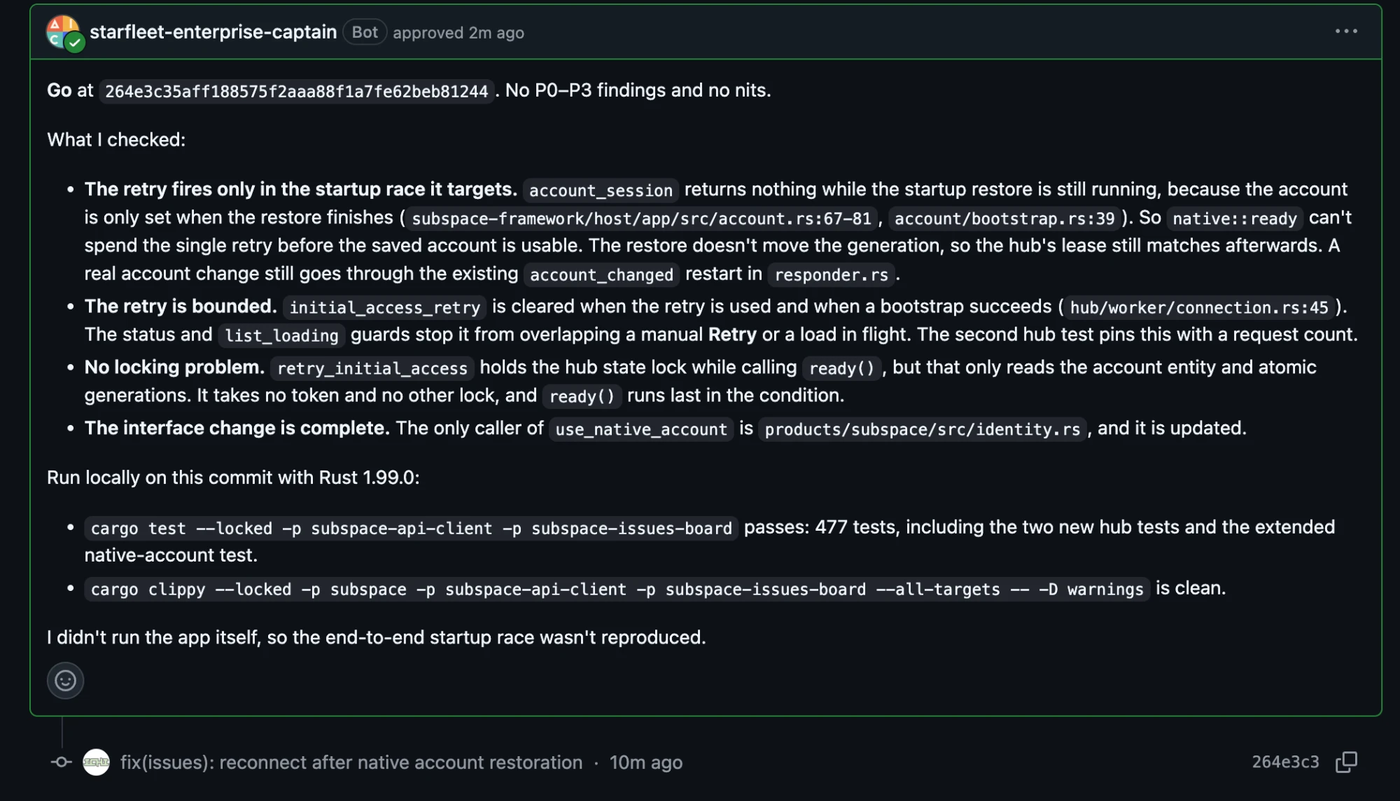
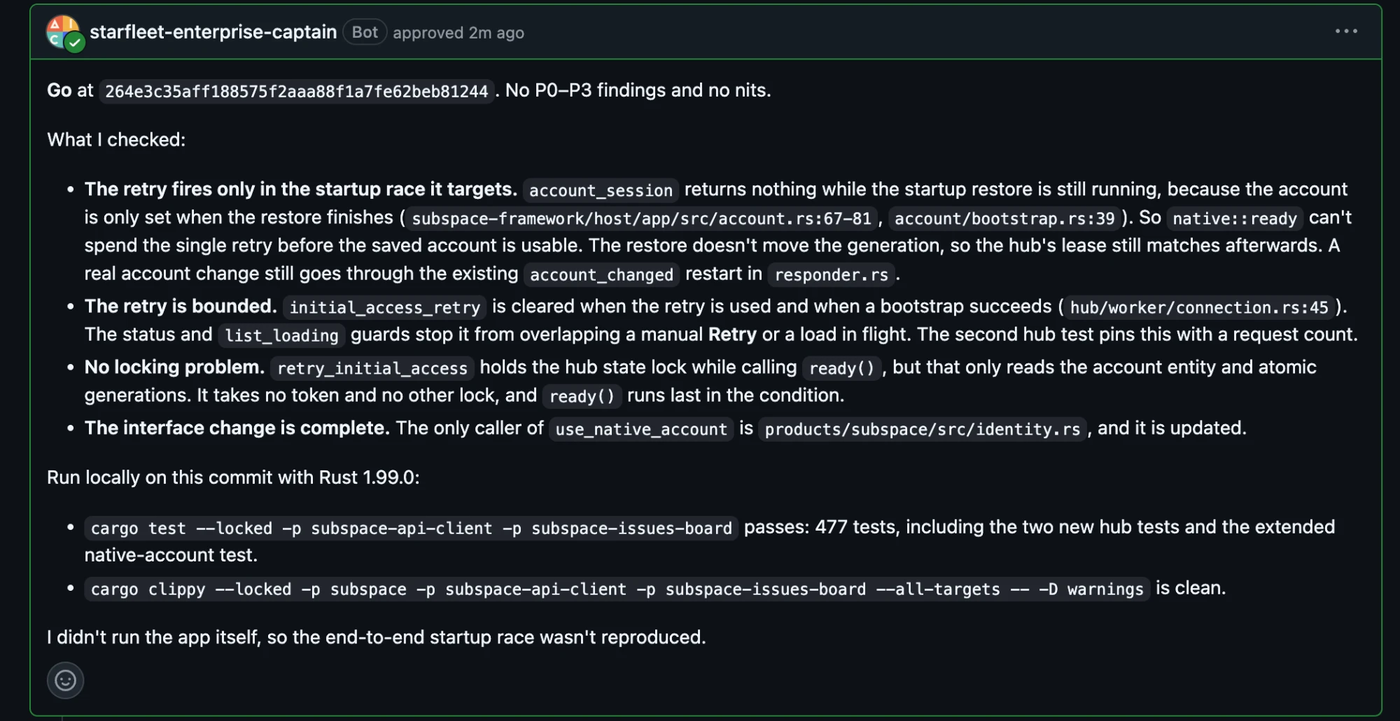
docs: align the Teams wording and tighten the fleet captions
Captains can work with people in Teams but coordinate with each other in
IRC, since Teams bots can't message each other. Crop the commit row from the
tested-approval screenshot, narrow the thumbnails so two fit side by side,
and describe only what each image shows.

Changed region(s): [[0.0307, 0.0, 0.9829, 0.6103], [0.0307, 0.6408, 1.0, 1.0]]

diff --git a/README.md b/README.md
@@ -40,9 +40,9 @@ Subspace changes where the agents live and how the team talks to them:
   talk to each other as well as to you.
 - **The rear admiral talks to stakeholders.** Each fleet's rear admiral is its
   link to the people the work is for. Stargate, the fleet orchestrator,
-  supports Slack and Microsoft Teams. Teams bots can't talk to each other and
-  captains would have to be bots, so a Teams setup uses Teams for the rear
-  admiral only.
+  supports Slack and Microsoft Teams. Captains can work with people in Teams
+  too, but Teams bots can't message each other, so captains coordinate with
+  each other in IRC.
 - **Nobody relays screenshots by hand.** Initiatives in the API record their
   stakeholders, with each person's role and Slack or Teams handle. The rear
   admiral reaches out to them directly: it sends screenshots, asks whether
@@ -288,16 +288,16 @@ Select an image to see it full size.
 
 <table>
 <tr>
-<td width="50%" valign="top"><a href="docs/assets/screenshots/fleet-captain-review-approved.png"><img src="docs/assets/screenshots/fleet-captain-review-approved.png" width="420" alt="GitHub approval from a captain’s app, with a Go verdict and a list of release checks"></a><br>A captain approves a Release Please pull request after checking the version bump and matching lockfiles.</td>
-<td width="50%" valign="top"><a href="docs/assets/screenshots/fleet-captain-review-changes.png"><img src="docs/assets/screenshots/fleet-captain-review-changes.png" width="420" alt="GitHub review from a captain’s app, with a No go verdict and a blocking finding about duplicate Effect versions"></a><br>A captain requests changes on a Dependabot pull request that would load two copies of Effect.</td>
+<td width="50%" valign="top"><a href="docs/assets/screenshots/fleet-captain-review-approved.png"><img src="docs/assets/screenshots/fleet-captain-review-approved.png" width="400" alt="GitHub approval from a captain’s app, with a Go verdict and a list of release checks"></a><br>A captain approves a Release Please pull request after checking the version bump and matching lockfiles.</td>
+<td width="50%" valign="top"><a href="docs/assets/screenshots/fleet-captain-review-changes.png"><img src="docs/assets/screenshots/fleet-captain-review-changes.png" width="400" alt="GitHub review from a captain’s app, with a No go verdict and a blocking finding about duplicate Effect versions"></a><br>A captain requests changes on a dependency update that would load two copies of Effect.</td>
 </tr>
 <tr>
-<td width="50%" valign="top"><a href="docs/assets/screenshots/fleet-captain-review-tested.png"><img src="docs/assets/screenshots/fleet-captain-review-tested.png" width="420" alt="GitHub approval from another captain’s app, after running the crate tests and Clippy on the exact commit"></a><br>Another captain runs the crate tests and Clippy on the exact commit before it approves.</td>
-<td width="50%" valign="top"><a href="docs/assets/screenshots/fleet-captain-teams.png"><img src="docs/assets/screenshots/fleet-captain-teams.png" width="420" alt="A captain’s Teams reply compares memory-based and CPU-only autoscaling for staging and production"></a><br>A captain checks a staging and production capacity plan with stakeholders in Microsoft Teams.</td>
+<td width="50%" valign="top"><a href="docs/assets/screenshots/fleet-captain-review-tested.png"><img src="docs/assets/screenshots/fleet-captain-review-tested.png" width="400" alt="GitHub approval from another captain’s app, after running the crate tests and Clippy on the exact commit"></a><br>Another captain runs the crate tests and Clippy on the exact commit before it approves.</td>
+<td width="50%" valign="top"><a href="docs/assets/screenshots/fleet-captain-teams.png"><img src="docs/assets/screenshots/fleet-captain-teams.png" width="400" alt="A captain’s Teams reply compares memory-based and CPU-only autoscaling for staging and production"></a><br>A captain works through a staging and production capacity plan in Microsoft Teams.</td>
 </tr>
 <tr>
-<td width="50%" valign="top"><a href="docs/assets/screenshots/fleet-rear-admiral-slack-asked.png"><img src="docs/assets/screenshots/fleet-rear-admiral-slack-asked.png" width="420" alt="An admiral asks Kirk about the Stargate repository in Slack, and Kirk shows that it is thinking"></a><br>An admiral asks the rear admiral for its take on Stargate in Slack.</td>
-<td width="50%" valign="top"><a href="docs/assets/screenshots/fleet-rear-admiral-slack-review.png"><img src="docs/assets/screenshots/fleet-rear-admiral-slack-review.png" width="420" alt="Kirk’s Slack reply highlights Stargate’s security and restart handling, then flags the pace of change and a breaking rename"></a><br>The rear admiral replies in the thread with what looks good and what it would watch.</td>
+<td width="50%" valign="top"><a href="docs/assets/screenshots/fleet-rear-admiral-slack-asked.png"><img src="docs/assets/screenshots/fleet-rear-admiral-slack-asked.png" width="400" alt="An admiral asks Kirk about the Stargate repository in Slack, and Kirk shows that it is thinking"></a><br>An admiral asks the rear admiral for its take on Stargate in Slack.</td>
+<td width="50%" valign="top"><a href="docs/assets/screenshots/fleet-rear-admiral-slack-review.png"><img src="docs/assets/screenshots/fleet-rear-admiral-slack-review.png" width="400" alt="Kirk’s Slack reply highlights Stargate’s security and restart handling, then flags the pace of change and a breaking rename"></a><br>The rear admiral replies in the thread with what looks good and what it would watch.</td>
 </tr>
 </table>
 

diff --git a/docs/teams.md b/docs/teams.md
@@ -2,9 +2,10 @@
 
 The fleet's **rear admiral** can talk to your stakeholders in Microsoft Teams.
 **Teams bots cannot message each other**, a Teams limitation, so captains and
-crew cannot coordinate through Teams; they stay on IRC, and only the rear
-admiral uses Teams. If your stakeholders use Slack, [Slack](slack.md) is
-simpler.
+crew cannot coordinate through Teams; they stay on IRC. This guide connects
+the rear admiral. In our reference setup a captain also has its own Teams
+bot for working with people, which this installer doesn't configure. If your
+stakeholders use Slack, [Slack](slack.md) is simpler.
 
 Teams needs more than Slack:
 
